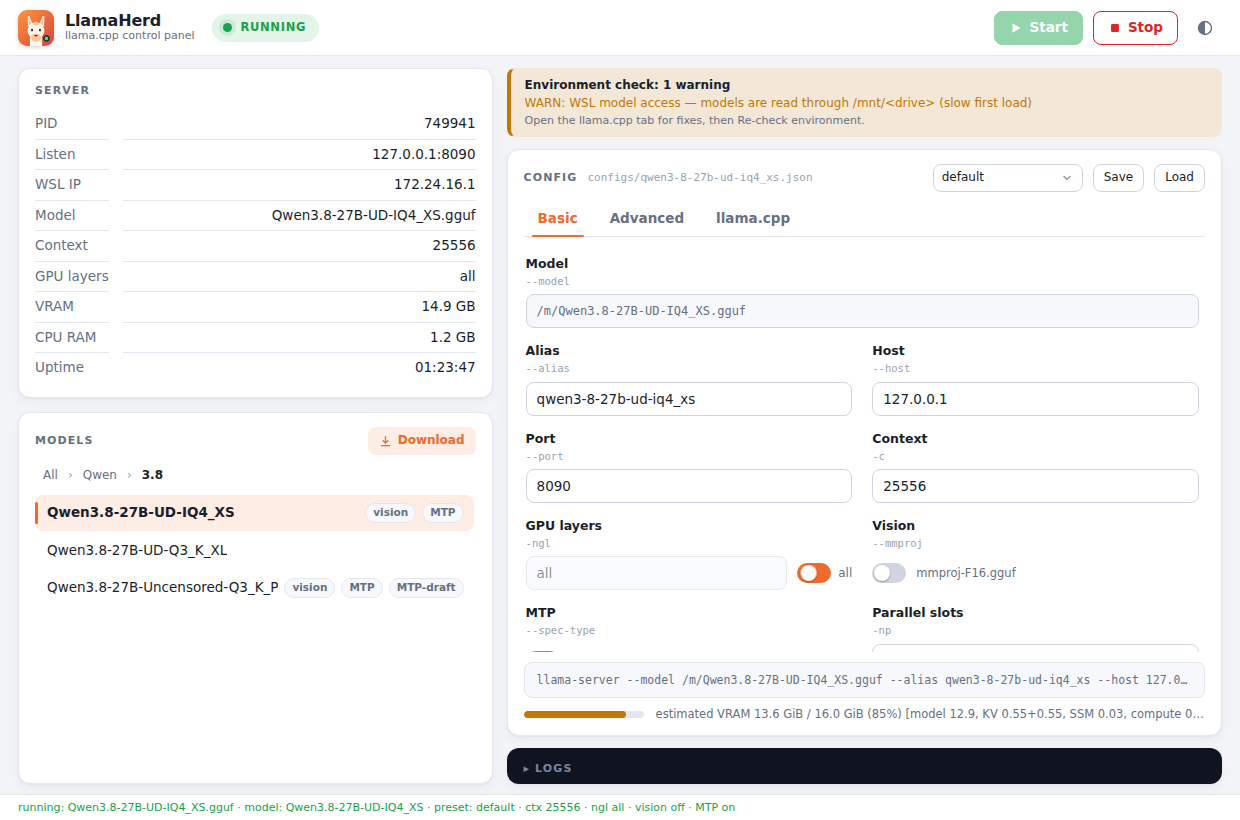
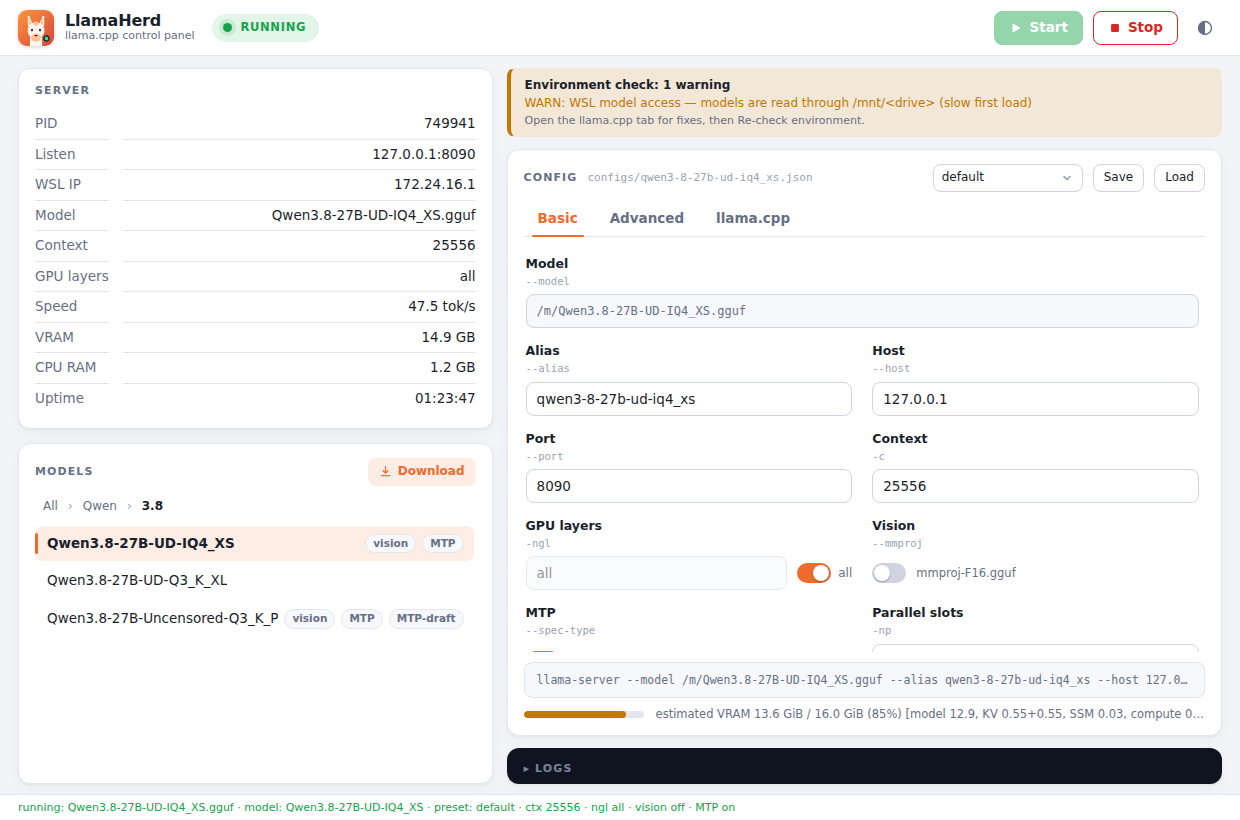
Server box: average generation speed (tok/s) with min/max/last tooltip
Parsed from llama-server's per-request 'eval time' log line (works without
--perf/--metrics); token-weighted average, reset on each start, shown only for
the managed running server. Verified against a real model.

Changed region(s): [[0.0306, 0.3659, 0.3984, 0.7622], [0.6435, 0.6707, 0.6742, 0.7317]]

diff --git a/scripts/uishot/mock.js b/scripts/uishot/mock.js
@@ -21,7 +21,7 @@
       status, pid: running ? "749941" : "—", binary: "/home/me/llama.cpp/build/bin/llama-server",
       listen: running ? "127.0.0.1:8090" : "", wslIp: "172.24.16.1",
       model: running ? "Qwen3.8-27B-UD-IQ4_XS.gguf" : "—", context: running ? "25556" : "—",
-      gpuLayers: running ? "all" : "—", vram: running ? "14.9 GB" : "—", cpuRam: running ? "1.2 GB" : "—",
+      gpuLayers: running ? "all" : "—", tokPerSec: running ? "47.5 tok/s" : "—", tokPerSecTip: "Average of 3 request(s), 190 tokens\nmin 30.0 · max 60.0 · last 60.0 tok/s", vram: running ? "14.9 GB" : "—", cpuRam: running ? "1.2 GB" : "—",
       uptime: running ? "01:23:45" : "00:00:00",
     },
     models, selectedModel: 0, alias: models[0].alias,

diff --git a/frontend/dist/main.js b/frontend/dist/main.js
@@ -14,6 +14,7 @@
       model: $("kv-model"),
       context: $("kv-context"),
       gpulayers: $("kv-gpulayers"),
+      tps: $("kv-tps"),
       vram: $("kv-vram"),
       cpuram: $("kv-cpuram"),
       uptime: $("kv-uptime"),
@@ -320,6 +321,8 @@
     el.kv.model.textContent = srv.model || "—";
     el.kv.context.textContent = srv.context || "—";
     el.kv.gpulayers.textContent = srv.gpuLayers || "—";
+    el.kv.tps.textContent = srv.tokPerSec || "—";
+    el.kv.tps.title = srv.tokPerSecTip || "";
     el.kv.vram.textContent = srv.vram || "—";
     el.kv.cpuram.textContent = srv.cpuRam || "—";
     el.kv.uptime.textContent = srv.uptime || "—";

diff --git a/frontend/dist/index.html b/frontend/dist/index.html
@@ -41,6 +41,7 @@
         <span class="kv-l">Model</span><span class="kv-v" id="kv-model">—</span>
         <span class="kv-l">Context</span><span class="kv-v" id="kv-context">—</span>
         <span class="kv-l">GPU layers</span><span class="kv-v" id="kv-gpulayers">—</span>
+        <span class="kv-l">Speed</span><span class="kv-v" id="kv-tps">—</span>
         <span class="kv-l">VRAM</span><span class="kv-v" id="kv-vram">—</span>
         <span class="kv-l">CPU RAM</span><span class="kv-v" id="kv-cpuram">—</span>
         <span class="kv-l">Uptime</span><span class="kv-v" id="kv-uptime">—</span>

diff --git a/control/speed.go b/control/speed.go
@@ -1,0 +1,112 @@
+package control
+
+import (
+	"fmt"
+	"regexp"
+	"strconv"
+	"strings"
+)
+
+// SpeedStats summarises generation speed (tokens/s) over the requests a managed
+// server has finished since it was started. Only servers LlamaHerd launched are
+// measured: the numbers come from llama-server's own per-request log line.
+type SpeedStats struct {
+	Requests int     // completed generations counted
+	Tokens   int     // total generated tokens
+	TimeMS   float64 // total generation time
+	Min      float64 // slowest request, tokens/s
+	Max      float64 // fastest request, tokens/s
+	Last     float64 // most recent request, tokens/s
+}
+
+// Avg is the token-weighted average speed (total tokens / total time), which
+// is what a user would measure with a stopwatch; 0 when nothing was recorded.
+func (s SpeedStats) Avg() float64 {
+	if s.TimeMS <= 0 {
+		return 0
+	}
+	return float64(s.Tokens) / (s.TimeMS / 1000)
+}
+
+// Add records one finished generation of n tokens that took ms milliseconds.
+func (s *SpeedStats) Add(n int, ms float64) {
+	if n <= 0 || ms <= 0 {
+		return
+	}
+	tps := float64(n) / (ms / 1000)
+	if s.Requests == 0 || tps < s.Min {
+		s.Min = tps
+	}
+	if tps > s.Max {
+		s.Max = tps
+	}
+	s.Last = tps
+	s.Requests++
+	s.Tokens += n
+	s.TimeMS += ms
+}
+
+// Summary is the short value shown in the status box, e.g. "42.3 tok/s".
+func (s SpeedStats) Summary() string {
+	if s.Requests == 0 {
+		return "—"
+	}
+	return fmt.Sprintf("%.1f tok/s", s.Avg())
+}
+
+// Tooltip explains the value: min / max / last and how many requests it covers.
+func (s SpeedStats) Tooltip() string {
+	if s.Requests == 0 {
+		return "No generation measured yet (only servers started by LlamaHerd are measured)."
+	}
+	return fmt.Sprintf("Average of %d request(s), %d tokens\nmin %.1f · max %.1f · last %.1f tok/s",
+		s.Requests, s.Tokens, s.Min, s.Max, s.Last)
+}
+
+// genTimingRe matches llama-server's per-request generation timing line, e.g.
+//
+//	"       eval time =     520.11 ms /    32 tokens (   16.25 ms per token,    61.53 tokens per second)"
+//
+// The prompt-processing variant ("prompt eval time = ...") is excluded by the
+// caller.
+var genTimingRe = regexp.MustCompile(`\beval time\s*=\s*([0-9.]+)\s*ms\s*/\s*([0-9]+)\s*tokens`)
+
+// parseGenTiming extracts (tokens, ms) from a generation-timing log line.
+func parseGenTiming(line string) (tokens int, ms float64, ok bool) {
+	i := strings.Index(line, "eval time")
+	if i < 0 {
+		return 0, 0, false
+	}
+	// "prompt eval time" is prefill speed, not generation speed.
+	if strings.HasSuffix(line[:i], "prompt ") {
+		return 0, 0, false
+	}
+	m := genTimingRe.FindStringSubmatch(line)
+	if m == nil {
+		return 0, 0, false
+	}
+	n, err1 := strconv.Atoi(m[2])
+	t, err2 := strconv.ParseFloat(m[1], 64)
+	if err1 != nil || err2 != nil || n < 2 { // 1-token replies give meaningless tok/s
+		return 0, 0, false
+	}
+	return n, t, true
+}
+
+// Speed returns a copy of the current statistics.
+func (m *Manager) Speed() SpeedStats {
+	m.mu.Lock()
+	defer m.mu.Unlock()
+	return m.speed
+}
+
+// recordLine feeds one server output line to the speed statistics.
+func (m *Manager) recordLine(line string) {
+	n, ms, ok := parseGenTiming(line)
+	if !ok {
+		return
+	}
+	m.mu.Lock()
+	m.speed.Add(n, ms)
+	m.mu.Unlock()
+}

diff --git a/control/server_test.go b/control/server_test.go
@@ -46,3 +46,44 @@ func TestBuildArgsDraftModel(t *testing.T) {
 		t.Fatalf("draft-mtp args = %s", mtp)
 	}
 }
+
+func TestParseGenTiming(t *testing.T) {
+	gen := "slot print_timings: id  0 | task 5 |        eval time =     520.11 ms /    32 tokens (   16.25 ms per token,    61.53 tokens per second)"
+	n, ms, ok := parseGenTiming(gen)
+	if !ok || n != 32 || ms != 520.11 {
+		t.Fatalf("gen line: got %d %v %v", n, ms, ok)
+	}
+	prompt := "slot print_timings: id  0 | task 5 | prompt eval time =     120.00 ms /   200 tokens (    0.60 ms per token,  1666.67 tokens per second)"
+	if _, _, ok := parseGenTiming(prompt); ok {
+		t.Error("prompt eval line must not count as generation speed")
+	}
+	for _, l := range []string{"", "load_tensors: offloaded 65/65 layers", "       eval time =  10.00 ms /     1 tokens (10 ms per token, 100 tokens per second)"} {
+		if _, _, ok := parseGenTiming(l); ok {
+			t.Errorf("should not parse %q", l)
+		}
+	}
+}
+
+func TestSpeedStats(t *testing.T) {
+	var s SpeedStats
+	if s.Summary() != "—" || s.Avg() != 0 {
+		t.Fatalf("empty stats: %q", s.Summary())
+	}
+	s.Add(100, 2000) // 50 tok/s
+	s.Add(30, 1000)  // 30 tok/s
+	s.Add(60, 1000)  // 60 tok/s (last)
+	if s.Min != 30 || s.Max != 60 || s.Last != 60 || s.Requests != 3 {
+		t.Errorf("min/max/last/requests = %v %v %v %d", s.Min, s.Max, s.Last, s.Requests)
+	}
+	// token-weighted: 190 tokens / 4 s
+	if got := s.Avg(); got < 47.4 || got > 47.6 {
+		t.Errorf("avg = %v, want 47.5", got)
+	}
+	if !strings.Contains(s.Tooltip(), "min 30.0") || !strings.Contains(s.Tooltip(), "max 60.0") {
+		t.Errorf("tooltip = %q", s.Tooltip())
+	}
+	s.Add(0, 100) // ignored
+	if s.Requests != 3 {
+		t.Error("zero-token request must be ignored")
+	}
+}

diff --git a/control/server.go b/control/server.go
@@ -60,7 +60,8 @@ type Manager struct {
 	vramMB   int
 	ramMB    int
 	nCtx     int
-	onChange func() // called on every state transition (any goroutine)
+	speed    SpeedStats // generation speed since the last Start
+	onChange func()     // called on every state transition (any goroutine)
 	onLog    func(string)
 }
 
@@ -181,6 +182,7 @@ func (m *Manager) Start(cfg schema.Config) error {
 	m.cmd = cmd
 	m.external = false
 	m.exit = 0
+	m.speed = SpeedStats{}
 	m.listen = addr
 	m.setStatusLocked(StatusStarting)
 	pid := cmd.Process.Pid
@@ -243,7 +245,9 @@ func (m *Manager) pipeLogs(r interface{ Read([]byte) (int, error) }, stream stri
 	sc := bufio.NewScanner(r)
 	sc.Buffer(make([]byte, 0, 64*1024), 1024*1024)
 	for sc.Scan() {
-		m.log(fmt.Sprintf("[%s] %s", stream, sc.Text()))
+		line := sc.Text()
+		m.recordLine(line)
+		m.log(fmt.Sprintf("[%s] %s", stream, line))
 	}
 }
 

diff --git a/schema/schema.go b/schema/schema.go
@@ -12,9 +12,13 @@ type Server struct {
 	Model     string `json:"model"`
 	Context   string `json:"context"`
 	GPULayers string `json:"gpuLayers"`
-	VRAM      string `json:"vram"`
-	CPURAM    string `json:"cpuRam"`
-	Uptime    string `json:"uptime"`
+	// TokPerSec is the average generation speed (e.g. "42.3 tok/s"); the tooltip
+	// carries min / max / last. "—" until a request has finished.
+	TokPerSec    string `json:"tokPerSec"`
+	TokPerSecTip string `json:"tokPerSecTip"`
+	VRAM         string `json:"vram"`
+	CPURAM       string `json:"cpuRam"`
+	Uptime       string `json:"uptime"`
 }
 
 // Basic holds the BASIC tab field values (task 04).

diff --git a/app.go b/app.go
@@ -552,7 +552,11 @@ func (a *App) snapshot() Snapshot {
 	case control.StatusStopped, control.StatusCrashed:
 		a.runCfg = nil // nothing is loaded anymore
 	}
-	srv := schema.Server{PID: "—", Uptime: "00:00:00", VRAM: "—", CPURAM: "—"}
+	sp := a.mgr.Speed()
+	if info.Status != control.StatusRunning {
+		sp = control.SpeedStats{} // only the live server's speed is shown
+	}
+	srv := schema.Server{PID: "—", Uptime: "00:00:00", VRAM: "—", CPURAM: "—", TokPerSec: sp.Summary(), TokPerSecTip: sp.Tooltip()}
 	srv.Status = string(info.Status)
 	srv.Listen = info.Listen
 	srv.Binary = a.bin

diff --git a/CHANGELOG.md b/CHANGELOG.md
@@ -7,6 +7,13 @@ and this project adheres to [Semantic Versioning](https://semver.org/spec/v2.0.0
 
 ## [Unreleased]
 
+### Added
+
+- **Generation speed** in the Server box: average tokens/s of the managed server's finished
+  requests (token-weighted, parsed from llama-server's per-request timing line);
+  hover for min / max / last and the request count. Resets on every start; not
+  measured for servers LlamaHerd did not start.
+
 ### Changed
 
 - **New UI.** Card-based layout with an app bar (logo, live status pill, Start/Stop),
